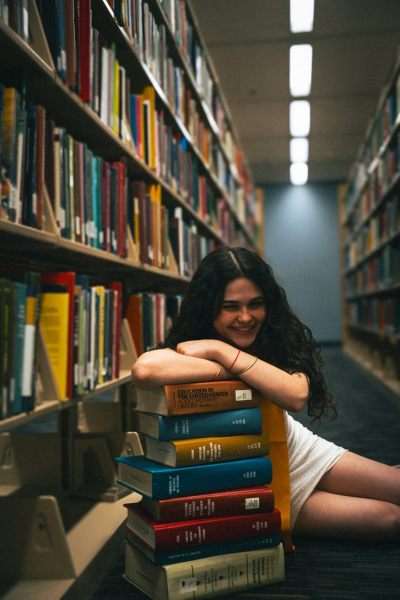
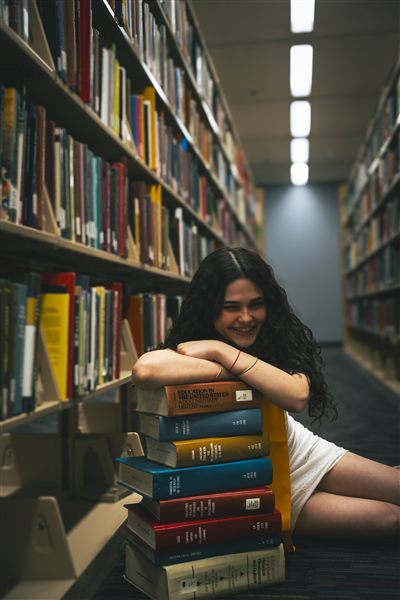
Updated hero image, optimized images.

diff --git a/script.js b/script.js
@@ -198,11 +198,11 @@
         { opt: 'asu-graduation-library-reading-profile', widths: [400, 800, 1200, 1920], ratio: 2.10, alt: 'Female graduate reading book in library profile view' },
         { opt: 'asu-graduation-open-book-overhead-detail', widths: [400, 800, 1200, 1920], ratio: 1.50, alt: 'Overhead detail of graduate reading open book' },
         { opt: 'asu-graduation-bookshelf-hand-motion-detail', widths: [400, 800, 1200, 1920], ratio: 2.32, alt: 'Motion detail of graduate hand brushing bookshelf' },
-        { src: 'images/highschool grad photo 1.png', ratio: 0.79, alt: 'High school graduation portrait 1' },
-        { src: 'images/highschool grad photo 2.png', ratio: 0.74, alt: 'High school graduation portrait 2' },
-        { src: 'images/highschool grad photo 3.png', ratio: 0.76, alt: 'High school graduation portrait 3' },
-        { src: 'images/highschool grad photo 4.png', ratio: 0.67, alt: 'High school graduation portrait 4' },
-        { src: 'images/highschool grad photo 5.png', ratio: 0.80, alt: 'High school graduation portrait 5' }
+        { opt: 'highschool-grad-photo-1', widths: [400, 800, 1200, 1920], ratio: 0.79, alt: 'High school graduation portrait 1' },
+        { opt: 'highschool-grad-photo-2', widths: [400, 800, 1200, 1920], ratio: 0.74, alt: 'High school graduation portrait 2' },
+        { opt: 'highschool-grad-photo-3', widths: [400, 800, 1200, 1920], ratio: 0.76, alt: 'High school graduation portrait 3' },
+        { opt: 'highschool-grad-photo-4', widths: [400, 800, 1200, 1920], ratio: 0.67, alt: 'High school graduation portrait 4' },
+        { opt: 'highschool-grad-photo-5', widths: [400, 800, 1200, 1920], ratio: 0.80, alt: 'High school graduation portrait 5' }
       ],
       families: [
         { opt: 'family-airplane', widths: [400, 800, 1013], ratio: 0.89 },

diff --git a/index.html b/index.html
@@ -55,7 +55,7 @@
 <div class="hc-track" id="hcTrack">
 <div class="hc-slide" data-index="0">
 <div class="hc-bg">
-<img alt="Cinematic portrait session at Arizona library" class="hc-img" src="images/opt/hero-grad-pic-library-800w.jpg" srcset="images/opt/hero-grad-pic-library-400w.jpg 400w, images/opt/hero-grad-pic-library-800w.jpg 800w, images/opt/hero-grad-pic-library-874w.jpg 874w" sizes="100vw" width="874" height="1311" fetchpriority="high" decoding="async"/>
+<img alt="Cinematic portrait session in Phoenix, Arizona" class="hc-img" src="images/opt/hero-grad-pic-library-800w.jpg" srcset="images/opt/hero-grad-pic-library-400w.jpg 400w, images/opt/hero-grad-pic-library-800w.jpg 800w, images/opt/hero-grad-pic-library-1200w.jpg 1200w, images/opt/hero-grad-pic-library-1920w.jpg 1920w" sizes="100vw" width="1920" height="2880" fetchpriority="high" decoding="async"/>
 </div>
 </div>
 <div class="hc-slide" data-index="1">
